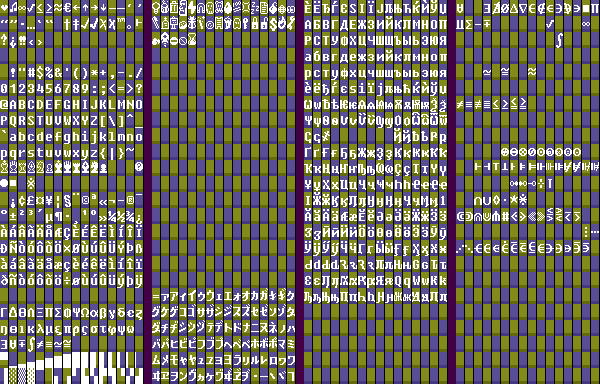
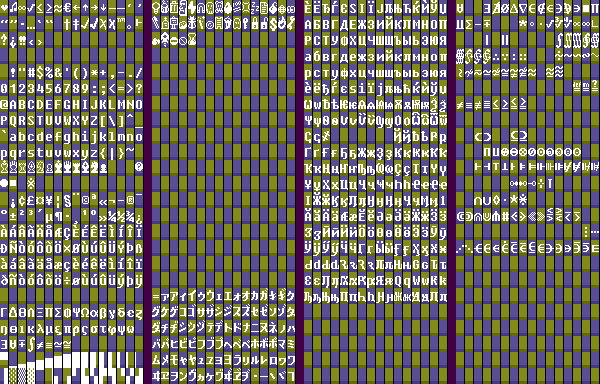
Some more math symbols in 1x
git-svn-id: file:///home/runner/work/tom7misc-sync-action/tom7misc-sync-action/upstream/trunk@5989 c7e11af0-4c7a-11f1-9edd-117cb6f09d55

diff --git a/bit7/unicoderange.cc b/bit7/unicoderange.cc
@@ -34,11 +34,12 @@ static void Dump(uint32_t start, uint32_t end) {
 
 int main(int argc, char **argv) {
   ANSI::Init();
-  CHECK(argc == 3) << "./unicoderange.exe 2200 22FF\n";
+  CHECK(argc == 3) << "./unicoderange.exe 2200 2300\n"
+    "Outputs all the unicode codepoints in [U+2200, U+2300).\n";
 
   uint32_t start = strtol(argv[1], nullptr, 16);
   uint32_t end = strtol(argv[2], nullptr, 16);
-  CHECK(start < end && start != 0) << "./unicoderange.exe 2200 22FF\n";
+  CHECK(start < end && start != 0) << "./unicoderange.exe 2200 2300\n";
 
   Dump(start, end);
 

diff --git a/bit7/font-image.cc b/bit7/font-image.cc
@@ -1027,6 +1027,7 @@ const std::vector<int> &PageBit7Math() {
     0x22fc,  // (⋼) SMALL CONTAINS WITH VERTICAL BAR AT END OF HORIZONTAL STROKE
     0x22fd,  // (⋽) CONTAINS WITH OVERBAR
     0x22fe,  // (⋾) SMALL CONTAINS WITH OVERBAR
+    0x22ff,  // (⋿) Z NOTATION BAG MEMBERSHIP
 
     -1, -1, -1, -1, -1, -1, -1, -1, -1, -1, -1, -1, -1, -1, -1, -1,
     -1, -1, -1, -1, -1, -1, -1, -1, -1, -1, -1, -1, -1, -1, -1, -1,
